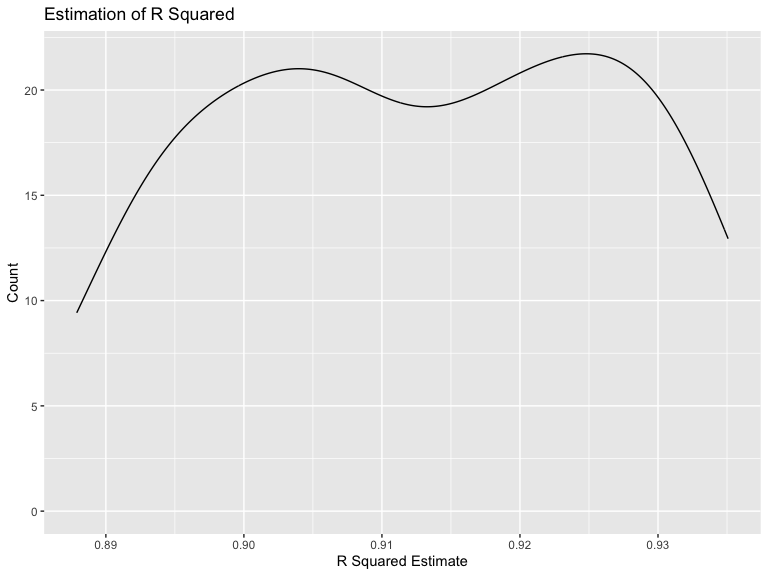
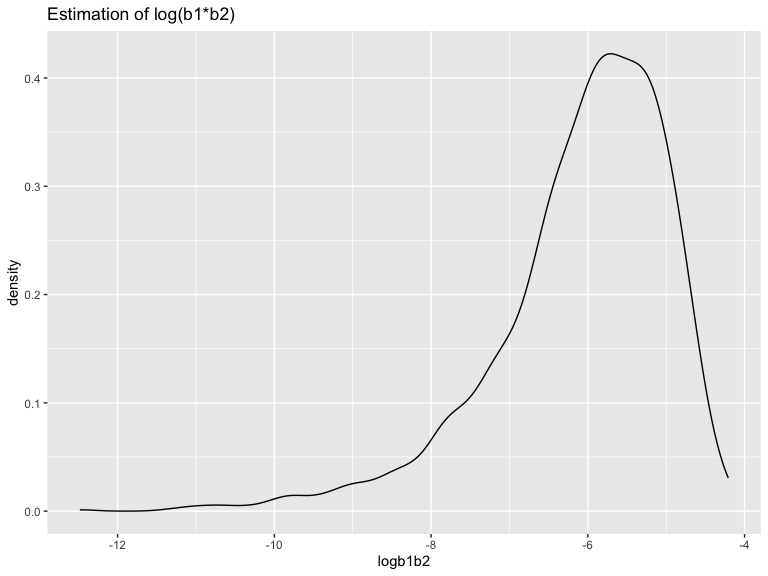
finished problem 2

diff --git a/p8105_HW6_lsj2122.md b/p8105_HW6_lsj2122.md
@@ -32,88 +32,109 @@ weather_df =
 ### Creating Bootstrap and Getting Estimates
 
 ``` r
-weather_data = 
-  weather_df |> 
-  modelr::bootstrap(n = 50) |> 
+boot_sample = function(df) {
+  sample_frac(df, replace = TRUE)
+}
+```
+
+``` r
+set.seed(1)
+
+boot_strap = 
+  tibble(strap_number = 1:5000) |> 
   mutate(
-    models = map(strap, \(df) lm(tmax ~ tmin + prcp, data = df)),
-    r2 = map(models, broom::glance),
-    results = map(models, broom::tidy)) |>
-  select(.id,results,r2) |> 
-  unnest(r2, results) |>
-  select(.id, r.squared, term, estimate) |>
-  pivot_wider(
-    names_from = term,
-    values_from = estimate
-  ) |>
+    strap_sample = map(strap_number, \(i) boot_sample(weather_df))
+  )
+```
+
+``` r
+boot_results = 
+  boot_strap |> 
   mutate(
-    log_b1_b2 = log(tmin * prcp)
-  ) |>
-  select(.id, r.squared, log_b1_b2)
+    models = map(strap_sample, \(df) lm(tmax ~ tmin + prcp, data = df)),
+    tidy_results = map(models, broom::tidy),
+    glance_results = map(models, broom::glance)
+  ) |> 
+  select(strap_number, tidy_results, glance_results) |> 
+  unnest(tidy_results, glance_results)
 ```
 
     ## Warning: `unnest()` has a new interface. See `?unnest` for details.
-    ## ℹ Try `df %>% unnest(c(r2, results))`, with `mutate()` if needed.
+    ## ℹ Try `df %>% unnest(c(tidy_results, glance_results))`, with `mutate()` if
+    ##   needed.
+
+``` r
+logb1b2_results = boot_results |> 
+  select(strap_number, term, estimate, std.error) |> 
+  filter(term %in% c("tmin","prcp")) |> 
+  pivot_wider(
+     names_from = term,
+     values_from = c(estimate, std.error)
+  ) |> 
+  mutate(
+    logb1b2 = log(estimate_tmin * estimate_prcp)
+  ) 
+```
 
     ## Warning: There was 1 warning in `mutate()`.
-    ## ℹ In argument: `log_b1_b2 = log(tmin * prcp)`.
+    ## ℹ In argument: `logb1b2 = log(estimate_tmin * estimate_prcp)`.
     ## Caused by warning in `log()`:
     ## ! NaNs produced
+
+``` r
+rsq_results = boot_results |> 
+  select(strap_number, r.squared) |> 
+  distinct(.keep_all = TRUE)
+```
 
 ### Plotting Distribution of Estimates
 
 ``` r
-weather_data |>
-  ggplot(aes(x = r.squared)) +
+logb1b2_results |> 
+  ggplot(aes(x = logb1b2)) + 
   geom_density() +
   labs(
-    title = "Estimation of R Squared",
-    x = "R Squared Estimate",
-    y = "Count"
-  )
+    title = "Estimation of log(b1*b2)")
 ```
 
+    ## Warning: Removed 3361 rows containing non-finite values (`stat_density()`).
+
 <img src="p8105_HW6_lsj2122_files/figure-gfm/plot-1.png" width="90%" />
+
+``` r
+rsq_results |> 
+  ggplot(aes(x = r.squared)) + 
+  geom_density() + 
+  labs(
+    title = "Esimation of R squared")
+```
+
+<img src="p8105_HW6_lsj2122_files/figure-gfm/plot-2.png" width="90%" />
 
 The distribution of ${r^2}$ is normal, with it being centered around
 0.920. It shows a visibly heavy tail extending to low values, and a bump
 which could be attributed to the occurrence of large outliers withing
 the bootstrap samples.
 
-``` r
-weather_data |>
-  ggplot(aes(x = log_b1_b2)) +
-  geom_density() + 
-  labs(
-    title = "Estimation of log(b1b2)"
-  )
-```
-
-    ## Warning: Removed 29 rows containing non-finite values (`stat_density()`).
-
-<img src="p8105_HW6_lsj2122_files/figure-gfm/plot2-1.png" width="90%" />
-
 The distribution of log($\hat{beta_1} * \hat{beta_2}$) is uni-modal and
-left-skewed. There are 58 NA values, due to negative precipitation
-values, and we can see this distribution after we remove the NA values.
-The distribution shows an even more visibly heavy tail extending to the
-low values, with majority of the values clustering on the right side.
+left-skewed. Due to negative precipitation values, and we can see this
+distribution after we remove the NA values. The distribution shows an
+even more visibly heavy tail extending to the low values, with majority
+of the values clustering on the right side.
 
 ### 95% CI for log(b1\*b2)
 
 ``` r
-quantile(
-  pull(weather_data, log_b1_b2),
-  probs = c(0.025, 0.975), 
-  na.rm = TRUE
-) |> 
+logb1b2_results |> 
+  summarise(
+  upperCI = quantile(logb1b2, 0.975, na.rm = TRUE),
+  lowerCI = quantile(logb1b2, 0.025, na.rm = TRUE)) |> 
   knitr::kable()
 ```
 
-|       |         x |
-|:------|----------:|
-| 2.5%  | -8.117436 |
-| 97.5% | -4.436341 |
+|   upperCI |   lowerCI |
+|----------:|----------:|
+| -4.601673 | -8.981559 |
 
 This is the 95% confidence interval for
 log($\hat{beta_1} * \hat{beta_2}$) after removing the NA values.
@@ -121,17 +142,16 @@ log($\hat{beta_1} * \hat{beta_2}$) after removing the NA values.
 ### 95% CI for R-Squared
 
 ``` r
-quantile(
-  pull(weather_data, r.squared),
-  probs = c(0.025, 0.975)
-) |> 
+rsq_results |> 
+  summarise(
+  upperCI = quantile(r.squared, 0.975, na.rm = TRUE),
+  lowerCI = quantile(r.squared, 0.025, na.rm = TRUE)) |> 
   knitr::kable()
 ```
 
-|       |         x |
-|:------|----------:|
-| 2.5%  | 0.8899967 |
-| 97.5% | 0.9345209 |
+|   upperCI |   lowerCI |
+|----------:|----------:|
+| 0.9406812 | 0.8885495 |
 
 # Problem 3
 
@@ -140,5 +160,9 @@ quantile(
 ``` r
 birthweight_df = 
   read_csv("data/birthweight.csv") |> 
-  janitor::clean_names() 
+  janitor::clean_names() |> 
+  mutate(
+    babysex = factor(babysex, levels = c(1,2), labels = c("male", "female")), 
+    frace = factor(frace, levels = c(1, 2, 3, 4, 8, 9), labels = c("White", "Black", "Asian", "Puerto Rican", "Other", "Unknown"))
+  )
 ```
